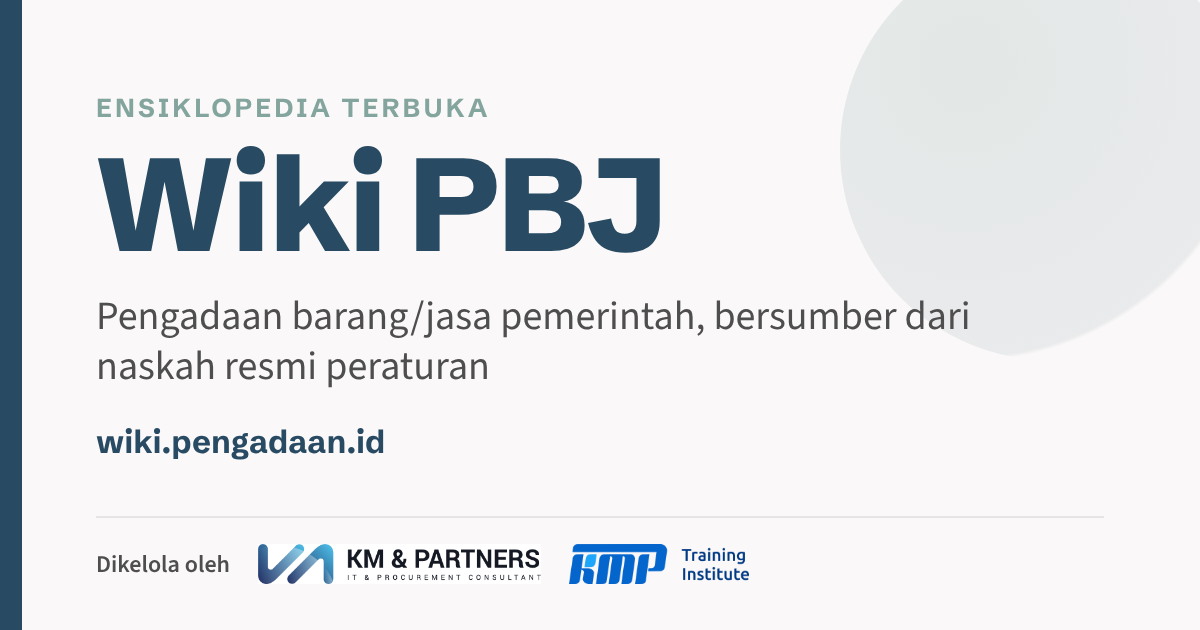
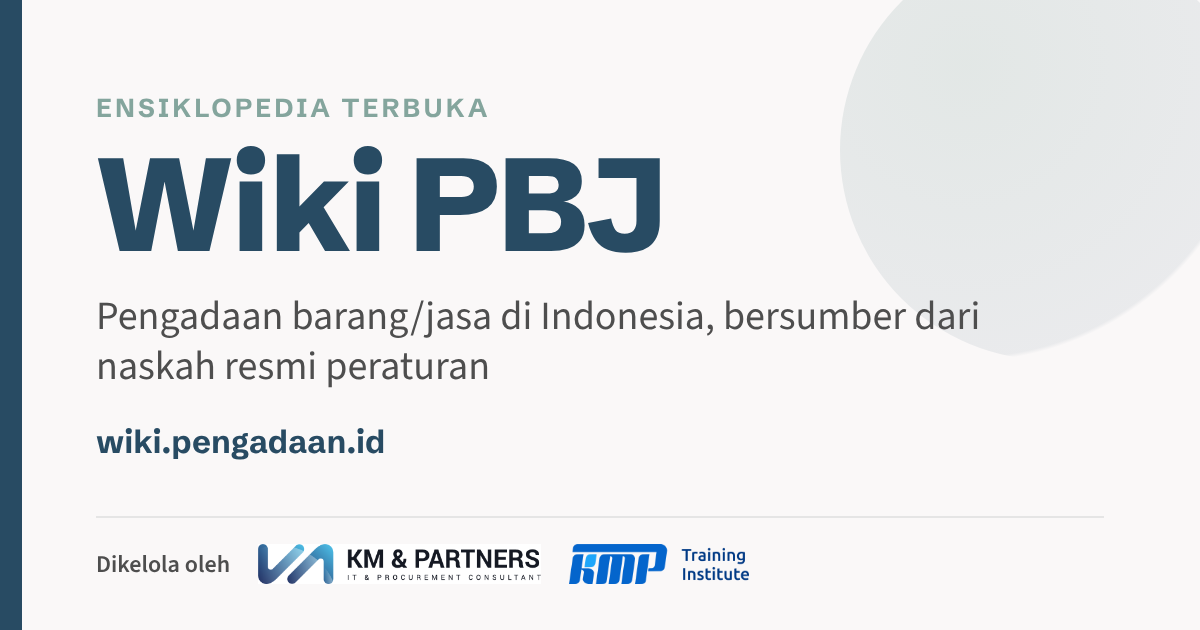
Perluas cakupan: pengadaan barang/jasa di Indonesia (bukan hanya pemerintah)
Claude-Session: https://claude.ai/code/session_01TfvasfhNShtuemPavvSfSd

Changed region(s): [[0.4008, 0.4825, 0.8325, 0.5429], [0.2158, 0.6937, 0.2467, 0.7238]]

diff --git a/halaman/index.md b/halaman/index.md
@@ -2,7 +2,7 @@
 title: Wiki PBJ
 ---
 
-**Wiki PBJ** adalah ensiklopedia terbuka tentang pengadaan barang/jasa pemerintah di Indonesia, dikelola KMP. Setiap artikel menjelaskan satu konsep, bersumber dari naskah resmi peraturan, dan ditayangkan setelah lolos reviu redaksi.
+**Wiki PBJ** adalah ensiklopedia terbuka tentang pengadaan barang/jasa di Indonesia, dikelola KMP. Setiap artikel menjelaskan satu konsep, bersumber dari naskah resmi peraturan, dan ditayangkan setelah lolos reviu redaksi.
 
 ## Mulai menjelajah
 

diff --git a/README.md b/README.md
@@ -1,6 +1,6 @@
 # Wiki PBJ
 
-Sumber situs [wiki.pengadaan.id](https://wiki.pengadaan.id), rujukan terbuka pengadaan barang/jasa pemerintah yang dikelola KMP.
+Sumber situs [wiki.pengadaan.id](https://wiki.pengadaan.id), rujukan terbuka pengadaan barang/jasa di Indonesia yang dikelola KMP.
 
 ## Struktur
 
